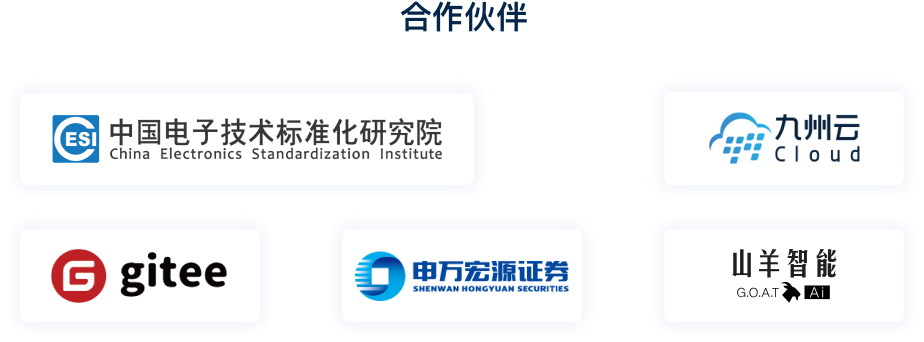
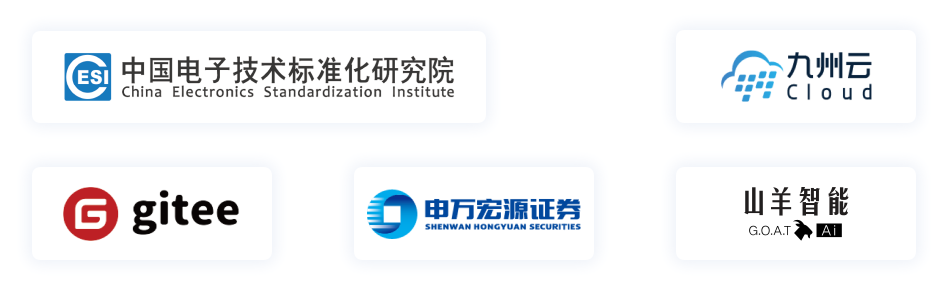
版本：0.1.23

diff --git a/src/views/content/part-eight.vue b/src/views/content/part-eight.vue
@@ -1,18 +1,31 @@
 <template>
   <div class="part-eight">
+    <div class="title">合作伙伴</div>
     <div class="cooperator">
     </div>
   </div>
 </template>
 <style lang="less" scoped>
 .part-eight {
-  padding-top: 80px;
-  background-image: url("@/assets/pngs/cooperation.png");
-  margin: 60px auto 0;
-  width: 929px;
-  height: 230px;
-  background-size: contain;
-  background-position: center center;
-  background-repeat: no-repeat;
+  text-align: center;
+  //padding-top: 80px;
+  margin-top: 60px;
+  .title {
+    font-size: 32px;
+    font-weight: 600;
+    color: #042749;
+  }
+
+  .cooperator {
+    margin: 0 auto;
+    background-image: url("@/assets/pngs/cooperation.png");
+    width: 948px;
+    height: 290px;
+    background-size: contain;
+    background-position: center center;
+    background-repeat: no-repeat;
+  }
 }
+
+
 </style>

diff --git a/src/views/content/part-nine.vue b/src/views/content/part-nine.vue
@@ -37,7 +37,7 @@
 </template>
 <style lang="less" scoped>
 .part-nine {
-  padding: 55px 0;
+  padding: 40px 0;
   display: flex;
   justify-content: center;
   background: #f6fafe;
